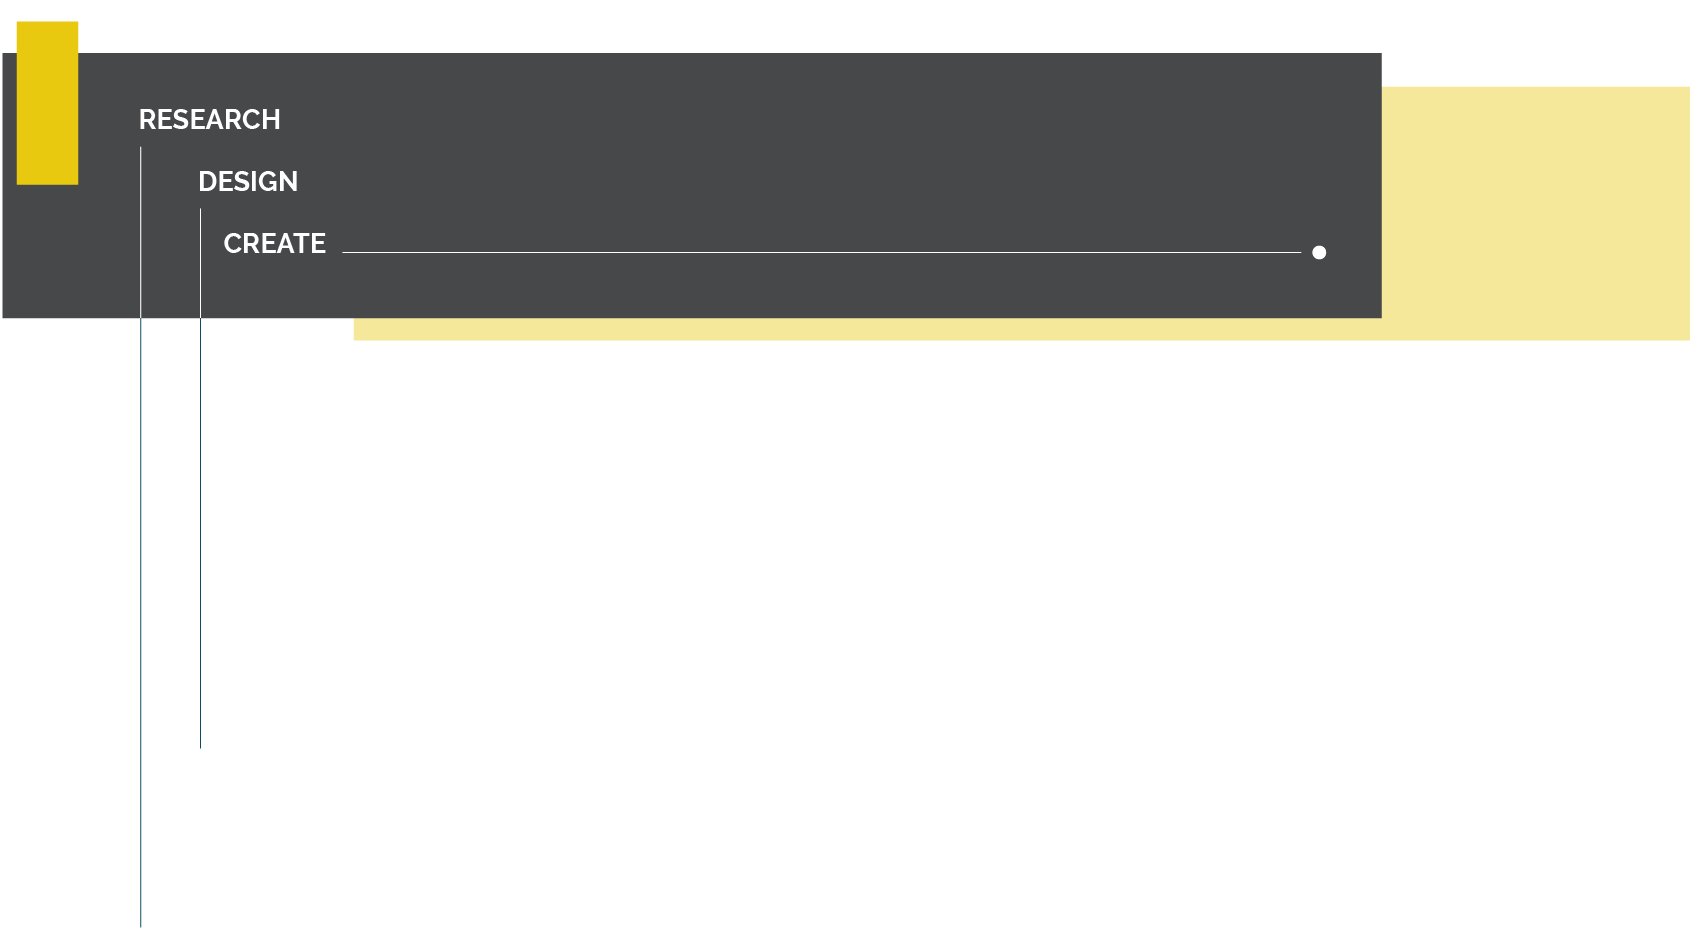
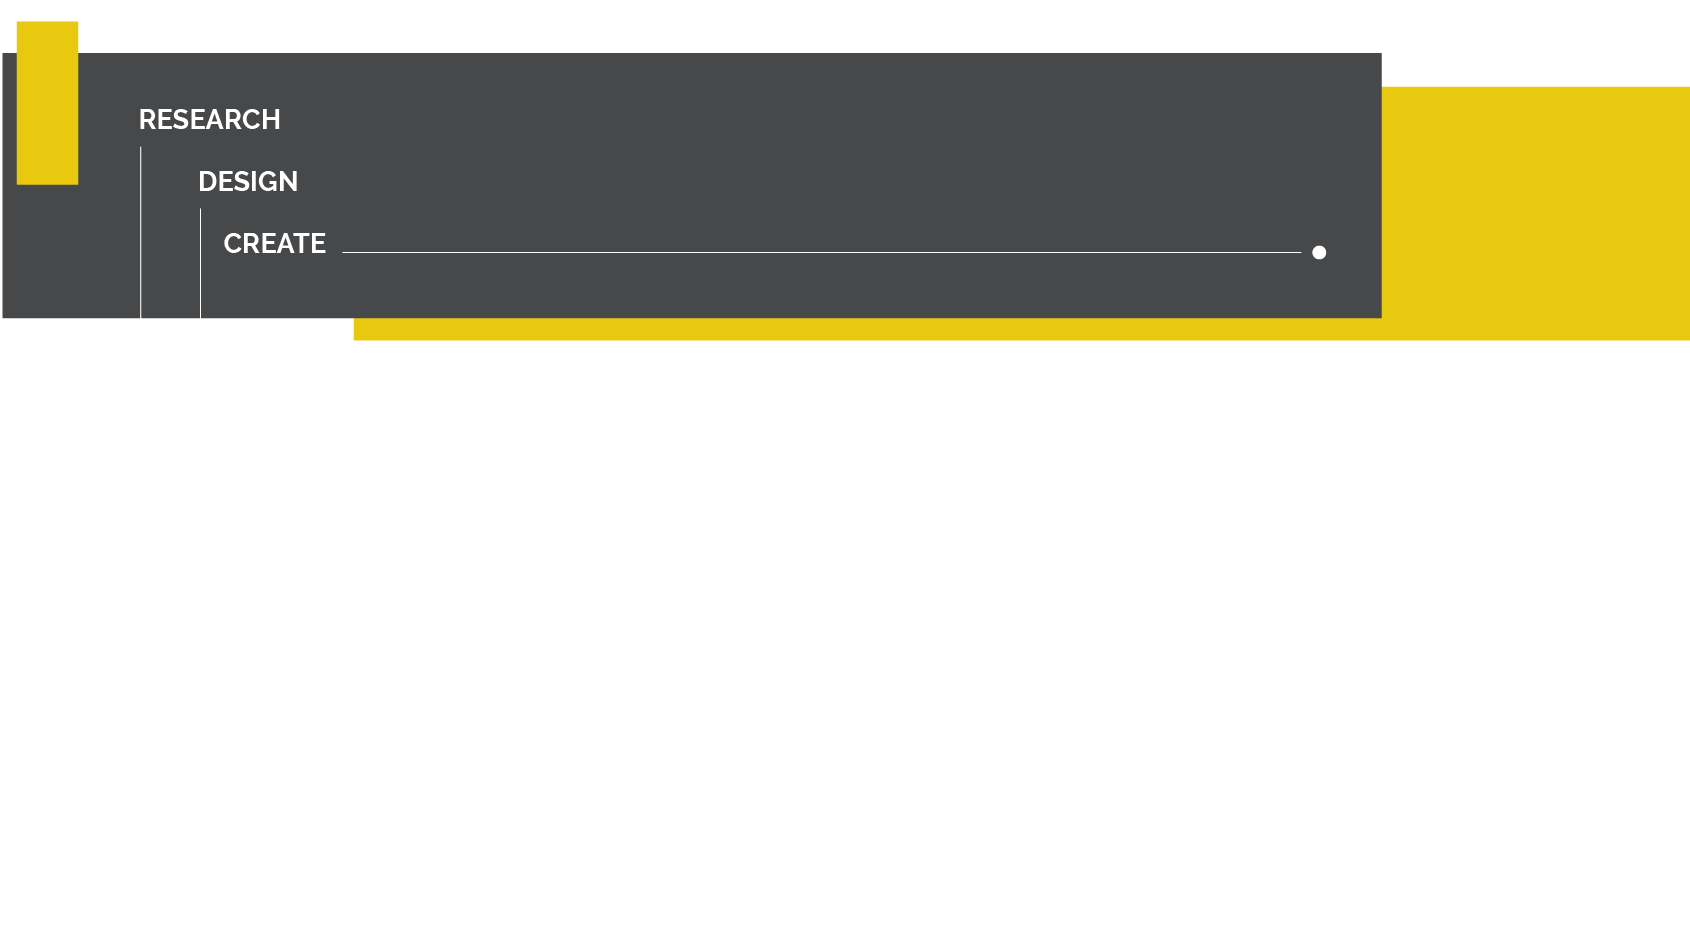
0805

Changed region(s): [[0.1846, 0.0924, 1.0, 0.3694]]

diff --git a/public/portfolio.css b/public/portfolio.css
@@ -1,24 +1,34 @@
 header{height:60vh; position: relative; display: flex; overflow: hidden; }
-header nav{ z-index: 2; width: 40%; height: 10vh; overflow: hidden;}
+header nav{ z-index: 2; width: 100%; height: 10vh; overflow: hidden;}
+.cover{position: absolute; top: 10vh; width: 100%; right: 0;}
 
 
-.nav-close{display: grid; grid-template-columns: 1fr 3fr 2fr; justify-content: space-around; align-items: center; height: 10vh; width: 100%; position: absolute; left: 0; background-color: var(--bg);}
-.nav-close .logo{text-indent: -9999px; background-image: url(../img/logo.jpg); background-position: center; background-size: contain; background-repeat: no-repeat; width: 50%; height: 50%; justify-self: center;}
-.nav-close ul{display: grid; grid-template-columns: 1fr 1fr 1fr; justify-self: center; width: 100%;}
-.nav-close ul li{justify-self: center; text-transform: uppercase;}
-.nav-links li a:hover{color: var(--hover); font-weight: bold;}
+.nav-close{display: grid; grid-template-columns: 5fr 4fr 0.5fr; justify-content: space-around; align-items: center; height: 10vh; width: 100%; position: absolute; left: 0; background-color: var(--bg);}
+.nav-close .logo{text-indent: -99999px; background-image: url(../img/logo.jpg); background-position: left; background-size: contain; background-repeat: no-repeat; width: 50%; height: 50%; margin-left: 3em;}
+.nav-links{display: grid; grid-template-columns: 1fr 1fr 1fr; justify-self: center; width: 100%;}
+.nav-links li{justify-self: center; text-transform: uppercase;}
+.nav-links li a{color: var(--black);}
+.nav-links li:hover, li a:hover{color: var(--hover); font-weight: bold;}
+.nav-button{cursor: pointer;}
  
+.burger{position: absolute; cursor: pointer; z-index: 2; display: none;}
+.burger div{width: 2em; height: 0.15em; color: white; margin: 0.6em; background-color: #fff; transition: all 0.6s ease;}
+.bgc{width: 100%; height: 10em; background-color: transparent; }
+
 
 .nav-open{position: absolute; width: 40%; height: 100%; top: 10vh; opacity: 0; pointer-events: none;}
 .close{position: relative; width: 2em; height: 2em; text-indent: -9999px; background: url(../img/closeicon.png) no-repeat; background-size:cover; border: 0; top: 2em; right: -90%;}
 .info{display: flex; justify-content: space-around; align-items: center; width: 100%; position: relative; top: 5em;}
+
+.nav-open .info ul li{padding-bottom: 20px;}
+.nav-open .nav-images{display: flex; justify-content: space-around; width: 100%;}
 
 
 
 .banner{height: fit-content;}
 .banner img{width: 100%; padding-top: 8%;}
 
-.cover{position: absolute; top: 10vh; width: 100%; right: 0;}
+
 
 /* main */
 main{width: 80%; margin: auto;}
@@ -87,7 +97,23 @@ section span{font-size: 0.9em;}
   }
 
   @media all and (max-width: 767px) and (min-width: 320px){
-    header{height: 20vh;}
+    header{height: 30vh; overflow-x: hidden;}
     #works{grid-template-columns: 1fr; gap: 3em 1em;}
-    .pf-img{height: 27vh;}
+    .pf-img{height: 27vh; background-position: top;}
+    .nav-close{grid-template-columns: 1fr;}
+    .nav-close .logo{background-position: left; width: 6vh; height: 6vh;}
+    .nav-links{position: absolute; right: 0; top: 8vh; display: unset; width: 40%; height: 100vh; text-align: right; background-color: var(--white); transform: translate(100%); transition: transform 0.5s ease-in;}
+    .nav-links li{padding: 1em 2em; font-size: 0.9em;}
+    .nav-links li a{color: var(--black);}
+    .burger{display: block; right: 0;}
+    .work h3{top: 75%; font-size: 1em;}
+    .work p{top: 72%; font-size: 0.8em;}
+    .close{right: -130%; top: 1em; width: 1.2em; height: 1.2em;}
   }
+  .nav-active{transform: translateX(0%);}
+  .dimmer{opacity: 0.3;}
+
+
+.toggle .line1{transform: rotate(-45deg) translate(-10px, 3px);}
+.toggle .line2{opacity: 0;}
+.toggle .line3{transform: rotate(45deg) translate(-14px, -6px);}

diff --git a/public/portfolio.js b/public/portfolio.js
@@ -73,21 +73,59 @@ const navOpen = document.querySelector('.nav-open');
 const close = document.querySelector('.close');
 const tl = new TimelineLite({paused: true, reversed :true});
 
+var screen_width = window.innerWidth;
+var e = document.querySelector('nav');
 
-tl.to('.cover', 1,{
-    width: '60%', top: '0', objectPosition:'left', ease: Power2.easeOut
-})
-.to('nav', 1,{
-    height: '100%', ease: Power2.easeOut, backgroundColor: '#515253'
-}, '-=0.5')
-.fromTo('.nav-open', 0.7, {
-    opacity:0, x: 50, ease: Power2.easeOut
-}, {
-    opacity:1, x: 0, onComplete : function () {
-        navOpen.style.pointerEvents = 'auto'
-    }
+//original
+// tl.to('.cover', 1,{
+//     width: '60%', top: '0', objectPosition:'left', ease: Power2.easeOut
+// })
+// .to('nav', 1,{
+//     height: '100%', ease: Power2.easeOut, backgroundColor: '#515253'
+// }, '-=0.5')
+// .fromTo('.nav-open', 0.7, {
+//     opacity:0, x: 50, ease: Power2.easeOut
+// }, {
+//     opacity:1, x: 0, onComplete : function () {
+//         navOpen.style.pointerEvents = 'auto'
+//     }
     
-});
+// });
+
+
+if(screen_width <= 767){
+
+    tl.to('.cover', 1,{
+        width: '60%', top: '0', objectPosition:'left', ease: Power2.easeOut
+    })
+    .to('nav', 1,{
+        width: '60%',height: '100%', ease: Power2.easeOut, backgroundColor: '#515253'
+    }, '-=0.5')
+    .fromTo('.nav-open', 0.7, {
+        opacity:0, x: 50, ease: Power2.easeOut
+    }, {
+        opacity:1, x: 0, onComplete : function () {
+            navOpen.style.pointerEvents = 'auto'
+        }
+        
+    });
+    } else {
+        tl.to('.cover', 1,{
+            width: '60%', top: '0', objectPosition:'left', ease: Power2.easeOut
+        })
+        .to('nav', 1,{
+            width: '40%',height: '100%', ease: Power2.easeOut, backgroundColor: '#515253'
+        }, '-=0.5')
+        .fromTo('.nav-open', 0.7, {
+            opacity:0, x: 50, ease: Power2.easeOut
+        }, {
+            opacity:1, x: 0, onComplete : function () {
+                navOpen.style.pointerEvents = 'auto'
+            }
+            
+        });
+    
+    }
 
 navButton.addEventListener('click', ()=>{
     if(tl.isActive()){
@@ -114,3 +152,30 @@ function toggleTween(tween) {
 }
 
 
+function topImage(x) {
+    if (x.matches) {
+        document.getElementById("topImg").src = "../img/portfoliotop-m.png";
+    } else {
+        document.getElementById("topImg").src = "../img/portfoliotop.png";
+    }
+  }
+  
+let x = window.matchMedia("(max-width: 767px)","(min-width: 767px)")
+topImage(x)
+x.addListener(topImage)
+
+const navSlide = () =>{
+    const burger = document.querySelector('.burger')
+    const nav = document.querySelector('.nav-links')
+    const cover = document.querySelector('.cover')
+    const container = document.querySelector('.container')
+
+    burger.addEventListener('click',()=>{
+        nav.classList.toggle('nav-active')
+        cover.classList.toggle('dimmer')
+        container.classList.toggle('dimmer')
+        burger.classList.toggle('toggle');
+    })
+}
+navSlide();
+  

diff --git a/public/index.css b/public/index.css
@@ -10,9 +10,9 @@ header .cover{width: 75%; height: 100%; position: absolute; top: 15%; right: 0; 
 .nav-links li:hover, li a:hover{color: var(--hover); font-weight: bold;}
 .nav-button{cursor: pointer;}
 
-.burger{position: relative; top: 2em; cursor: pointer; z-index: 2; display: none;}
-.burger div{width: 2em; height: 0.2em; color: white; margin: 0.3em; background-color: #fff;}
-
+.burger{position: absolute; cursor: pointer; z-index: 2; display: none;}
+.burger div{width: 2em; height: 0.15em; color: white; margin: 0.6em; background-color: #fff; transition: all 0.6s ease;}
+.bgc{width: 100%; height: 10em; background-color: transparent; }
 
 .nav-open{position: absolute; width: 40%; height: 100%; top: 10vh; opacity: 0; pointer-events: none;}
 .close{position: relative; width: 2em; height: 2em; text-indent: -9999px; background: url(../img/closeicon.png) no-repeat; background-size:cover; border: 0; top: 2em; right: -90%;}
@@ -28,14 +28,26 @@ header .cover{width: 75%; height: 100%; position: absolute; top: 15%; right: 0; 
     .close{width: 1em; height: 1em;}
   }
 
-  @media all and (max-width: 767px) and (min-width: 320px) {
-      header{overflow-x: hidden;}
-      header .cover{width: 100%;}
-      .nav-close{grid-template-columns: 1fr;}
-      .nav-close .logo{background-position: left; }
-      .nav-links{position: absolute; right: 0; top: 10vh; display: unset; width: 30%; text-align: right; transform: translateX(100%); transition: transform 0.5s ease-in;}
-      /* .nav-close ul li{opacity: 0;} */
-      .burger{display: block;}
+@media all and (max-width: 767px) and (min-width: 320px) {
+    header{overflow-x: hidden; height: 65vh;}
+    header .cover{width: 100%; height: 70%; top: 10vh; object-position: left;}
+    .nav-open{width: 60%;}
+    .close{width: 1.5em; height: 1.5em; right: -80%;}
+    .nav-close{grid-template-columns: 1fr;}
+    .nav-close .logo{background-position: left; width: 6vh; height: 6vh;}
+    .nav-links{position: absolute; right: 0; margin: 0; top: 10vh; display: unset; width: 40%; height: 100vh; text-align: right; background-color: var(--white); transform: translate(100%); transition: transform 0.5s ease-in;}
+    .nav-links li{padding: 1em 2em; font-size: 0.9em;}
+    .nav-links li a{color: var(--black);}
+    .nav-button{padding-top: 3em !important;}
+    /* .nav-close ul li{opacity: 0;} */
+    .burger{display: block; right: 0;}
+    
   }
 
-  .nav-active{transform: translateX(0%);}
+.nav-active{transform: translateX(0%);}
+.dimmer{opacity: 0.3;}
+
+
+.toggle .line1{transform: rotate(-45deg) translate(-10px, 3px);}
+.toggle .line2{opacity: 0;}
+.toggle .line3{transform: rotate(45deg) translate(-14px, -6px);}

diff --git a/public/main.js b/public/main.js
@@ -7,11 +7,34 @@ const close = document.querySelector('.close');
 const tl = new TimelineLite({paused: true, reversed :true});
 
 
+var screen_width = window.innerWidth;
+var e = document.querySelector('nav');
+
+//original
+// tl.to('.cover', 1,{
+//     width: '60%', top: '0', objectPosition:'left', ease: Power2.easeOut
+// })
+// .to('nav', 1,{
+//     width: '40%',height: '100%', ease: Power2.easeOut, backgroundColor: '#515253'
+// }, '-=0.5')
+// .fromTo('.nav-open', 0.7, {
+//     opacity:0, x: 50, ease: Power2.easeOut
+// }, {
+//     opacity:1, x: 0, onComplete : function () {
+//         navOpen.style.pointerEvents = 'auto'
+//     }
+    
+// });
+
+
+
+if(screen_width <= 767){
+
 tl.to('.cover', 1,{
     width: '60%', top: '0', objectPosition:'left', ease: Power2.easeOut
 })
 .to('nav', 1,{
-    width: '40%',height: '100%', ease: Power2.easeOut, backgroundColor: '#515253'
+    width: '60%',height: '100%', ease: Power2.easeOut, backgroundColor: '#515253'
 }, '-=0.5')
 .fromTo('.nav-open', 0.7, {
     opacity:0, x: 50, ease: Power2.easeOut
@@ -21,6 +44,25 @@ tl.to('.cover', 1,{
     }
     
 });
+} else {
+    tl.to('.cover', 1,{
+        width: '60%', top: '0', objectPosition:'left', ease: Power2.easeOut
+    })
+    .to('nav', 1,{
+        width: '40%',height: '100%', ease: Power2.easeOut, backgroundColor: '#515253'
+    }, '-=0.5')
+    .fromTo('.nav-open', 0.7, {
+        opacity:0, x: 50, ease: Power2.easeOut
+    }, {
+        opacity:1, x: 0, onComplete : function () {
+            navOpen.style.pointerEvents = 'auto'
+        }
+        
+    });
+
+}
+
+
 
 navButton.addEventListener('click', ()=>{
     if(tl.isActive()){
@@ -50,9 +92,30 @@ function toggleTween(tween) {
 const navSlide = () =>{
     const burger = document.querySelector('.burger')
     const nav = document.querySelector('.nav-links')
+    const cover = document.querySelector('.cover')
+    const navLink = document.querySelectorAll('.nav-links li a')
 
     burger.addEventListener('click',()=>{
         nav.classList.toggle('nav-active')
+        cover.classList.toggle('dimmer')
+        // burger animation
+        burger.classList.toggle('toggle');
     })
+
+    
+
+    
 }
 navSlide();
+
+// const nav = document.querySelector('.test');
+// function toggle_visibility(nav) {
+//     var screen_width = window.innerWidth;
+//     var e = document.querySelector('nav');
+//     if(screen_width <= 767) {
+//         e.style.width = '60%';
+//     }
+//     else {
+//         e.style.width = '40%';
+//     }
+// }

diff --git a/public/style.css b/public/style.css
@@ -12,11 +12,14 @@ label, button, [type=button], [type=submit], [type=reset], a{cursor: pointer;}
     --black: #000000;
     --bg:#272727;
     --lightgrey: #b0b0b0;
-    --hover: #104c63;
+    --hover: #E8C910;
     --second: #F5D0C5;
 }
 
 
 @media all and (max-width: 1024px) and (min-width: 768px){
     h3{font-size: 1em;}
+}
+@media all and (max-width: 767px) and (min-width: 320px){
+    
 }

diff --git a/public/greenp.js b/public/greenp.js
@@ -22,3 +22,5 @@ function renderWorks(arrToRender) {
 };
 
 renderWorks(works);
+
+
